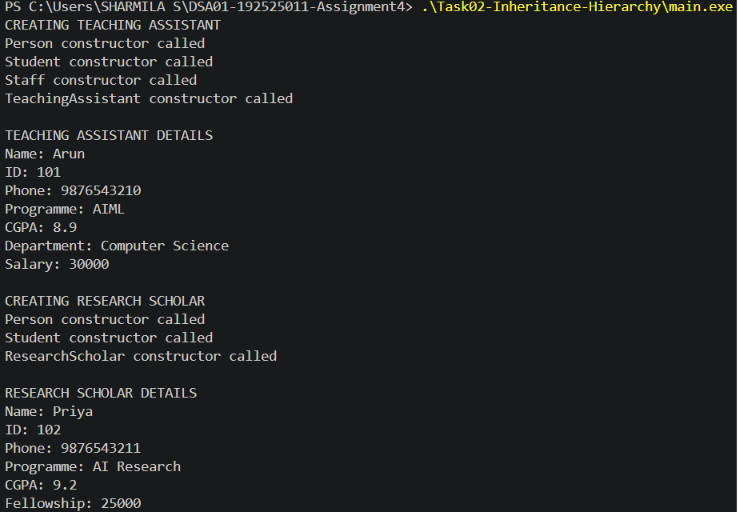
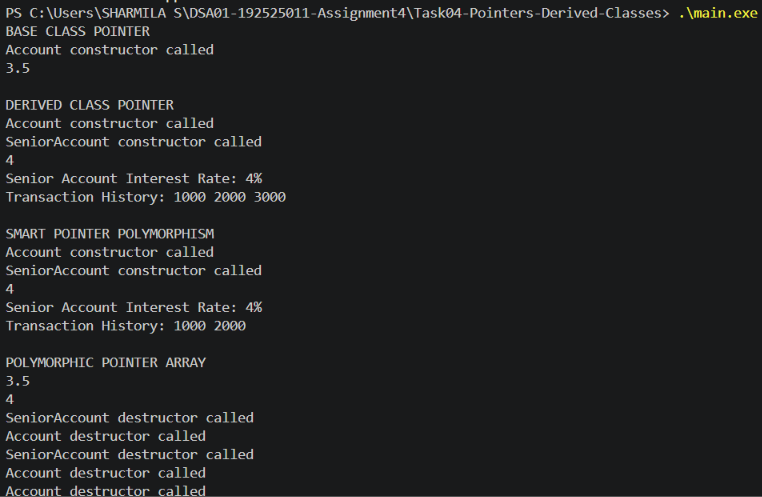
Implement safe polymorphism and derived class pointers

Changed region(s): [[0.0, 0.0, 1.0, 1.0]]

diff --git a/Task04-Pointers-Derived-Classes/main.cpp b/Task04-Pointers-Derived-Classes/main.cpp
@@ -1,0 +1,104 @@
+#include <iostream>
+#include <memory>
+using namespace std;
+
+class Account {
+protected:
+    double interestRate;
+
+public:
+    Account() : interestRate(3.5) {
+        cout << "Account constructor called" << endl;
+    }
+
+    virtual double getInterestRate() const {
+        return interestRate;
+    }
+
+    virtual void display() const {
+        cout << "Account Interest Rate: "
+             << getInterestRate() << "%" << endl;
+    }
+
+    virtual ~Account() {
+        cout << "Account destructor called" << endl;
+    }
+};
+
+class SeniorAccount : public Account {
+private:
+    double* transactionHistory;
+    int historySize;
+
+public:
+    SeniorAccount(int size) : transactionHistory(nullptr), historySize(size) {
+        interestRate = 4.0;
+        transactionHistory = new double[historySize];
+
+        for (int i = 0; i < historySize; i++) {
+            transactionHistory[i] = (i + 1) * 1000;
+        }
+
+        cout << "SeniorAccount constructor called" << endl;
+    }
+
+    double getInterestRate() const override {
+        return interestRate;
+    }
+
+    void display() const override {
+        cout << "Senior Account Interest Rate: "
+             << getInterestRate() << "%" << endl;
+
+        cout << "Transaction History: ";
+
+        for (int i = 0; i < historySize; i++) {
+            cout << transactionHistory[i] << " ";
+        }
+
+        cout << endl;
+    }
+
+    ~SeniorAccount() override {
+        delete[] transactionHistory;
+        cout << "SeniorAccount destructor called" << endl;
+    }
+};
+
+int main() {
+    cout << "BASE CLASS POINTER" << endl;
+
+    Account account;
+    Account* accountPtr = &account;
+
+    cout << accountPtr->getInterestRate() << endl;
+
+    cout << "\nDERIVED CLASS POINTER" << endl;
+
+    SeniorAccount senior(3);
+    Account* seniorPtr = &senior;
+
+    cout << seniorPtr->getInterestRate() << endl;
+    seniorPtr->display();
+
+    cout << "\nSMART POINTER POLYMORPHISM" << endl;
+
+    unique_ptr<Account> smartAccount =
+        make_unique<SeniorAccount>(2);
+
+    cout << smartAccount->getInterestRate() << endl;
+    smartAccount->display();
+
+    cout << "\nPOLYMORPHIC POINTER ARRAY" << endl;
+
+    Account* accounts[2];
+
+    accounts[0] = &account;
+    accounts[1] = &senior;
+
+    for (int i = 0; i < 2; i++) {
+        cout << accounts[i]->getInterestRate() << endl;
+    }
+
+    return 0;
+}

diff --git a/Task04-Pointers-Derived-Classes/analysis.md b/Task04-Pointers-Derived-Classes/analysis.md
@@ -1,0 +1,46 @@
+# Task 4 – Pointers to Derived Classes
+
+## 1. Problem Analysis
+
+The original Account hierarchy contains three major design issues:
+
+- Non-virtual functions cause static binding through base-class pointers.
+- A non-virtual destructor can cause undefined behaviour when deleting a derived object through a base pointer.
+- Object slicing occurs when a derived object is copied into a base object by value.
+
+## 2. Improved Design
+
+The Account class provides a virtual getInterestRate() function and a virtual destructor.
+
+SeniorAccount overrides getInterestRate() and display(). It also manages a dynamically allocated transaction history.
+
+## 3. Polymorphism
+
+The base Account pointer can refer to both Account and SeniorAccount objects.
+
+The virtual function ensures runtime binding.
+
+Observed interest rates:
+
+| Object | Interest Rate |
+|---|---:|
+| Account | 3.5% |
+| SeniorAccount | 4.0% |
+
+## 4. Virtual Destructor
+
+The virtual destructor ensures that the derived class destructor executes before the base class destructor when an object is deleted through a base-class pointer.
+
+Observed destruction order:
+
+SeniorAccount destructor → Account destructor
+
+## 5. Dynamic Memory Management
+
+SeniorAccount allocates transaction history dynamically using new[] and releases it using delete[].
+
+The implementation also demonstrates std::unique_ptr, which automatically manages object lifetime and prevents memory leaks.
+
+## 6. Conclusion
+
+The experiment demonstrates runtime polymorphism, base-class pointers, function overriding, virtual destructors and dynamic memory management. Smart pointers provide safer resource management in an inheritance hierarchy.
